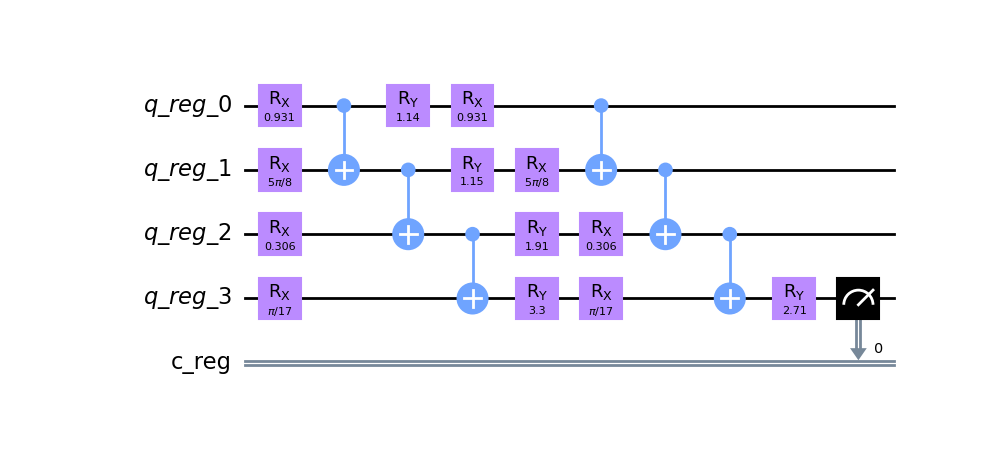
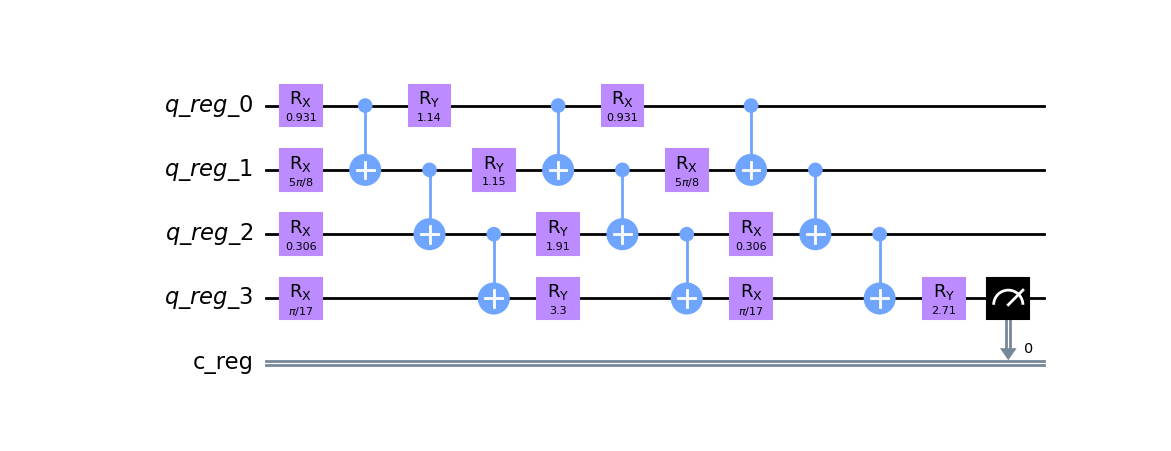
fixing double encoding and adding lessEntangled model

diff --git a/src/qml.py b/src/qml.py
@@ -97,8 +97,7 @@ class QML:
         self.circuit.ry(self.theta[-1], self.quantum_register[-1])
         self.circuit.measure(self.quantum_register[-1], self.classical_register)
 
-
-    def doubleEncoding(self):
+    def lessEntangled(self):
         for i, feature in enumerate(self.feature_vector):
             self.circuit.rx(np.pi*feature, self.quantum_register[i])
 
@@ -107,6 +106,29 @@ class QML:
 
         for i, feature in enumerate(self.feature_vector):
             self.circuit.ry(self.theta[i], self.quantum_register[i])
+            self.circuit.rx(np.pi*feature, self.quantum_register[i])
+
+        for qubit in range(self.n_quantum - 1):
+            self.circuit.cx(self.quantum_register[qubit], self.quantum_register[qubit + 1])
+
+        self.circuit.ry(self.theta[-1], self.quantum_register[-1])
+
+        self.circuit.measure(self.quantum_register[-1], self.classical_register)
+
+    def doubleEncoding(self):
+        for i, feature in enumerate(self.feature_vector):
+            self.circuit.rx(np.pi*feature, self.quantum_register[i])
+
+        for qubit in range(self.n_quantum - 1):
+            self.circuit.cx(self.quantum_register[qubit], self.quantum_register[qubit + 1])
+
+        for i in range(self.n_features):
+            self.circuit.ry(self.theta[i], self.quantum_register[i])
+
+        for qubit in range(self.n_quantum - 1):
+            self.circuit.cx(self.quantum_register[qubit], self.quantum_register[qubit + 1])
+
+        for i, feature in enumerate(self.feature_vector):
             self.circuit.rx(np.pi*feature, self.quantum_register[i])
 
         for qubit in range(self.n_quantum - 1):
@@ -246,6 +268,7 @@ if __name__ == "__main__":
     import matplotlib.pyplot as plt
     from sklearn import datasets
     from sklearn.preprocessing import MinMaxScaler
+    from qiskit.visualization import circuit_drawer
     import sys
 
     #seed=======================================================
@@ -280,9 +303,9 @@ if __name__ == "__main__":
 
     #learningRate = 0.1
     epochs = 10
-    parameterList = [5, 9, 5, 9]
-    modelList = ["basicModel", "doubleAnsatz", "doubleEncoding", "doubleAnsatzdoubleEncoding"]
-    shotList = [1000]#, 10000]
+    parameterList = [5]#[5, 9, 5, 5, 9]
+    modelList = ["doubleEncoding"]#["basicModel", "doubleAnsatz", "lessEntangled", "doubleEncoding", "doubleAnsatzdoubleEncoding"]
+    shotList = [1000, 10000]
     learnList = [0.1, 0.5, 1]
 
     for i, modelName in enumerate(modelList):
@@ -293,6 +316,10 @@ if __name__ == "__main__":
 
                 qml.modelCircuit(printC=True)
 
+                """(comment here to uncomment :P) to make circuit diagrams for article
+                circuit_drawer(qml.circuit, output='mpl')
+                plt.show()
+                """
 
                 model, loss, accuracy = qml.train(targets, epochs=epochs, learning_rate=learn)
                 """
@@ -308,7 +335,7 @@ if __name__ == "__main__":
                         + ", seed:" + str(seed) \
                         + ", epochs:" + str(epochs) \
                         + ", learningRate:" + str(learn) \
-                        + ", shots:" + str(nshots) \
+                        + ", shots:" + str(nshots) \
                         +" 1st:model, 2nd:loss, 3rd:accuracy"
 
 

diff --git a/src/readfile.py b/src/readfile.py
@@ -1,28 +1,52 @@
 #!/usr/bin/env python3
 
 import numpy as np
-import glob
-import matplotlib.pyplot as plt
 
-filenames = glob.glob('data/*')
+filename = "modelbasicModel_lrn0.5_shots1000_epochs10"
 
-#for filename in filenames:
-#    with open(filename) as fs:
-#        lines = fs.readlines()
-#
-#    print(lines)
-#
-#    break
+with open("data\\"+filename+".dat") as fs:
+    lines = fs.readlines()
 
-#for filename in filenames:
-#    lines = filename.read().split(' ')
+n_parameters = [5, 9, 5, 9]
 
-from numpy import loadtxt
+thetas_line = lines[1].strip('\\n').strip(' ')[1:-2]
+loss_line = lines[2].strip('\\n').strip(' ')[1:-2]
+accuracy_line = lines[3].strip('\\n').strip(' ')[1:-2]
 
-lines = loadtxt(filenames[0], comments="#", delimiter=' ')
+
+print(thetas_line)
+print(loss_line)
+print(accuracy_line)
+
+thetas = np.zeros(5)
+losses = np.zeros(10)
+accuracies = np.zeros(10)
+
+for i, n in enumerate(thetas_line.split()):
+    thetas[i] = float(n)
+
+for i, n in enumerate(loss_line.split()):
+    losses[i] = float(n)
+
+for i, n in enumerate(accuracy_line.split()):
+    accuracies[i] = float(n)
+
+print(thetas)
+print(losses)
+print(accuracy)
+
+def make_numpy_arrays(filename):
+    """
+    As it stands this is a gross hardcoded filereader assuming:
+
+    epochs = 10
+    """
+
+
+
 
 """
-want to try variable 
+want to try variable
     models = [basic/naive, double theta, double encoding]
         shots = [1k, 10k]
             learningrates = [0.1, 0.5, 1]

diff --git a/src/plotter.py b/src/plotter.py
@@ -34,8 +34,8 @@ def make_numpy_arrays(filename, n_thetas, epochs=10):
 
 if __name__=='__main__':
     #filename = "modelbasicModel_lrn0.5_shots1000_epochs10"
-    parameterList = [5, 9, 5, 9]
-    modelList = ["basicModel", "doubleAnsatz", "doubleEncoding", "doubleAnsatzdoubleEncoding"]
+    parameterList = [5, 9, 5, 5, 9]
+    modelList = ["basicModel", "doubleAnsatz", "lessEntangled", "doubleEncoding", "doubleAnsatzdoubleEncoding"]
     shotList = [1000, 10000]
     learnList = [0.1, 0.5, 1]
     epochs = 10
